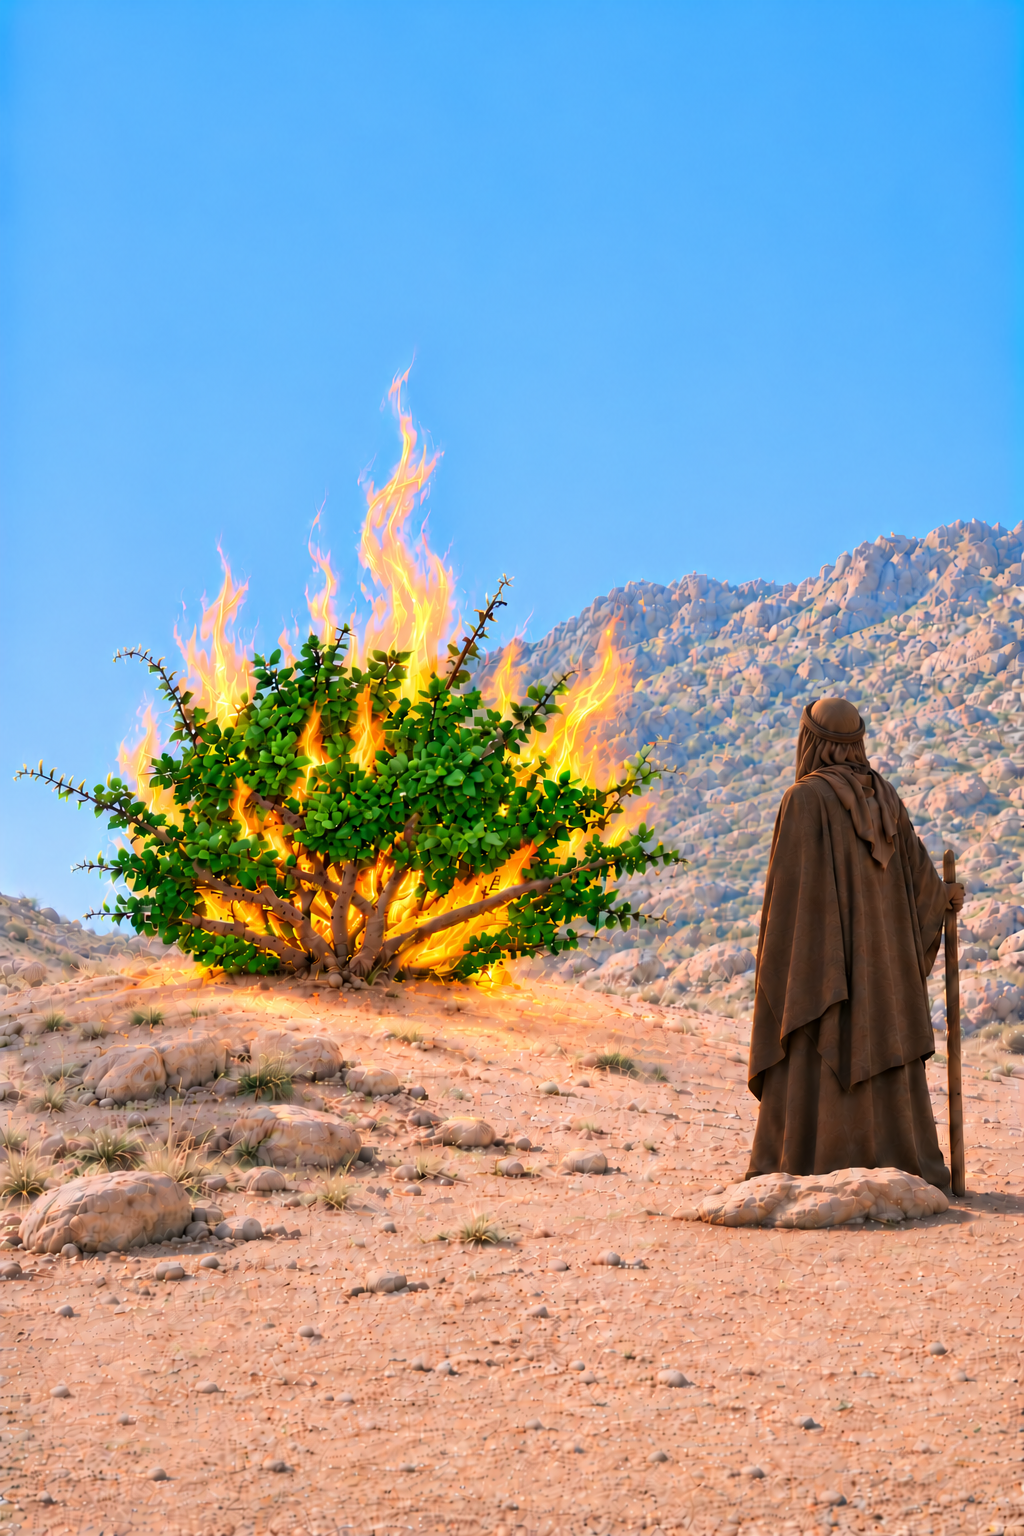
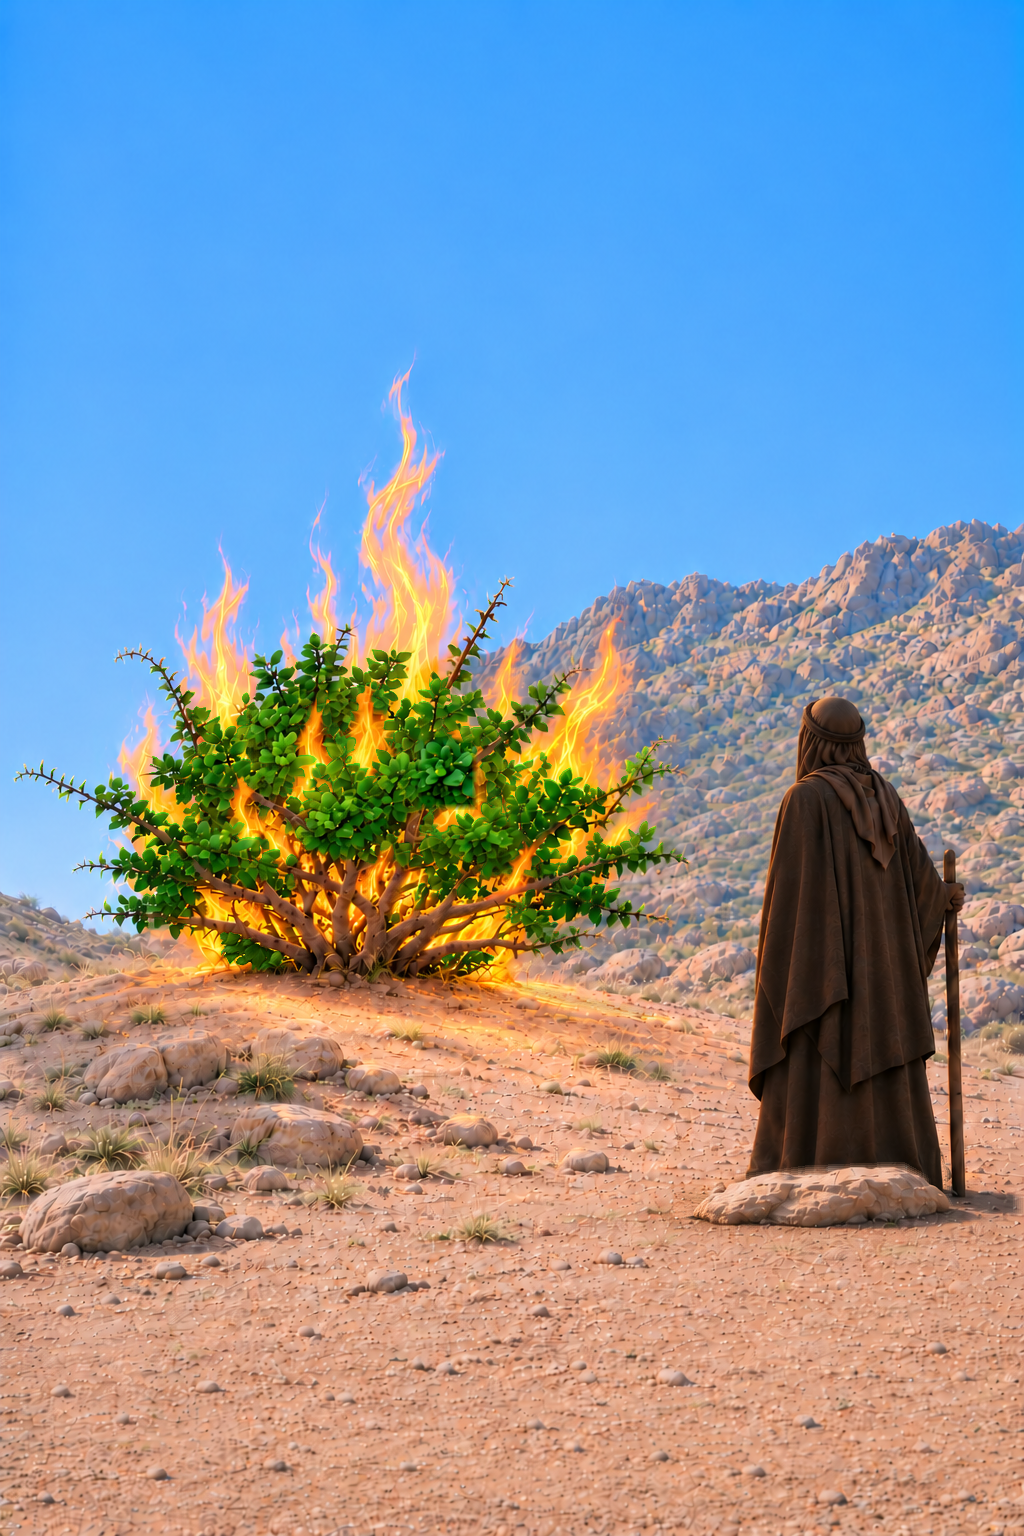
docs: finish targeted retouch of card E-2c

Changed region(s): [[0.0, 0.2188, 1.0, 1.0], [0.0312, 0.0, 0.0938, 0.0625], [0.7188, 0.0, 0.75, 0.0312]]

diff --git a/docs/인계/카드E2c_GPT.md b/docs/인계/카드E2c_GPT.md
@@ -1,48 +1,39 @@
-상태: 하는 중
+상태: 끝
 AI: GPT(Codex)
 시작: 2026-11-19 12:13 KST
-갱신: 2026-11-19 14:06 KST
-재개: GPT(Codex) · 2026-11-19 14:06 KST
+재개: 2026-11-19 14:06 KST
+갱신: 2026-11-19 14:18 KST
 줄: 그림 줄 가 · 떨기나무
 단계: 카드 E-2c · 떨기나무 그림 다듬기
 브랜치: gpt/sian-horeb
 기준 main: 56effe746b0abd7fdfe0dd69185e803014c4ab3e
 
-## 어디까지 했는지
+## 한 일
 
-- 14:06 KST 재개. 최신 작업줄의 GPT 순서와 원격 인계를 확인했다. 마지막 커밋이 40분을 넘은 E-2c를 이어받아 최신 main을 작업 브랜치에 합치고 재개를 기록했다.
-- 원격과 main을 새로 받고 AGENTS.md, docs/08_작업줄.md를 읽었다. 코드 줄에는 40분 안의 ‘하는 중’ 기록이 있어 규칙대로 건너뛰었다. 비어 있던 그림 줄 가 E-2c를 골랐다.
-- 기존 gpt/sian-horeb에 main을 fast-forward하고 시작 기록부터 커밋·푸시했다.
-- E-2b 원본 세 장을 내장 image_gen으로 편집해 보정 후보본 세 장을 만들었다. 중앙 격자를 초록 잎으로 바꾸고, 줄기 사이 점박이·잎 색·옷자락을 보정했으며, 그림 3의 팔을 굽혀 소매 천으로 얼굴을 가리게 했다.
-- 전체와 지정 좌표를 확대해 비교했다. 잎의 금빛 접점, 발치 그림자, 그림 3의 앞 바위 왼쪽 작은 돌 및 세 장의 미세한 배경 차이가 남아 있다. **요청을 모두 충족한 완성본으로 판정하지 않았으며, 상태는 ‘하는 중’이다.**
-- 실제 쓴 요청문 14개, 중간본 채택 여부, 제작 정보, 고친 곳마다의 확대 결과와 지정 영역 밖 변화는 아래 수정 기록에 적었다. 최종 후보 PNG는 도구 출력 그대로 복사했다.
-- 원본 폴더, 게임 파일, 진행판, 작업줄, 다른 줄의 브랜치는 고치지 않았다. main에 합치지 않는다.
+- 이전 인계의 편집 후보본과 원본 세 장을 비교했다. 최신 작업줄 순서에 따라 40분이 지난 E-2c를 이어받고, 최신 main과 재개 기록을 이 브랜치에 올렸다.
+- 편집 도구에 수정 위치를 확대해 넣었다. 원본 위에 필요한 부분만 붙여 중앙 격자를 초록 잎으로 바꾸고, 줄기 사이의 점박이와 잎의 노란 테두리를 줄였다. 그림 3은 팔꿈치를 굽혀 소매가 얼굴을 가리고, 그림 2·3은 옷자락 밑에 신이나 발가락처럼 보이던 돌출부를 없앴다.
+- 그림 1의 배경을 세 장에 공통으로 사용해 나무·불·땅을 맞췄다. 인물과 지팡이 주변은 원본마다 유지했고, 앞 바위 왼쪽의 혹을 다듬었다. 전체와 각 지정 위치를 확대해 확인했다. 하늘, 덤불·불, 공통 지면의 잘라낸 영역은 파일에서도 세 장이 동일했다.
+- 그림 세 장은 모두 1024×1536, 5MB 미만이다. 각 수정의 방법·확대 결과·범위 밖 차이와 내장 도구에 쓴 요청문 전문은 제작 기록에 적었다.
 
-## 올린 파일 목록
+## 바뀐 파일 목록
 
-1. docs/시안/떨기나무_압도_3/01_bush.png
-2. docs/시안/떨기나무_압도_3/02_moses.png
-3. docs/시안/떨기나무_압도_3/03_face_covered.png
-4. docs/시안/떨기나무_압도_3/떨기나무_수정기록.md
-5. docs/인계/카드E2c_GPT.md
+1. `docs/시안/떨기나무_압도_3/01_bush.png`
+2. `docs/시안/떨기나무_압도_3/02_moses.png`
+3. `docs/시안/떨기나무_압도_3/03_face_covered.png`
+4. `docs/시안/떨기나무_압도_3/떨기나무_수정기록.md`
+5. `docs/인계/카드E2c_GPT.md`
 
-세 그림 모두 1024×1536, 5MB 미만이다. 축소하지 않았다.
+## 그림별 카드 E 여섯 줄
 
-## 그림마다 카드 E 여섯 줄 확인
-
-| 그림 | 1. 하나님·천사 | 2. 불·빛·구름 속 얼굴·사람 | 3. 신상·폭력 | 4. 글자·주인공 아이 | 5. 본문 밖 사건·말씀 | 6. 초록 잎·연기/재·모세 얼굴 |
+| 그림 | 1. 하나님·천사 | 2. 불·빛·구름 속 얼굴·사람 | 3. 신상·폭력 | 4. 글자·주인공 아이 | 5. 본문 밖 사건·말씀 | 6. 녹색 잎·연기/재·모세 얼굴 |
 |---|---|---|---|---|---|---|
-| 01_bush | 발견하지 못함 | 발견하지 못함 | 없음 | 없음 | 없음 | 연기·재 없음, 인물 없음. 잎 금빛 접점 추가 보정 필요 |
-| 02_moses | 발견하지 못함 | 발견하지 못함 | 없음 | 없음 | 없음 | 연기·재와 얼굴 노출 없음. 잎 금빛 접점 추가 보정 필요 |
-| 03_face_covered | 발견하지 못함 | 발견하지 못함 | 없음 | 없음 | 없음 | 연기·재와 얼굴 노출 없음. 잎 금빛 접점 추가 보정 필요 |
-
-육안 점검이며 독립 검증·대표 승인을 대신하지 않는다. 6번을 완전히 충족했다고 표시하지 않았다. 현재 후보본을 게임에 넣지 않는다.
+| 1 | 없음 | 발견하지 못함 | 없음 | 없음 | 없음 | 초록 잎, 연기·재 없음, 인물 없음 |
+| 2 | 없음 | 발견하지 못함 | 없음 | 없음 | 없음 | 초록 잎, 연기·재 없음, 얼굴이 보이지 않는 뒷모습 |
+| 3 | 없음 | 발견하지 못함 | 없음 | 없음 | 없음 | 초록 잎, 연기·재 없음, 얼굴은 소매와 머리쓰개로 가림 |
 
 ## 점검 결과
 
-그림·문서 단계이므로 `node tools/check.js` 빠른 점검만 실행했다. 문법과 두 빌드가 통과했다. 빌드로 작업 상태에 잡힌 생성 파일 3개는 내용 차이가 없음을 확인하고 원래 상태로 되돌렸다. `git diff --check`도 통과했다. 자동 점검 합격은 그림의 남은 보정 사항이 해결됐다는 뜻이 아니다.
-
-마지막 두 줄:
+`node tools/check.js`를 실행했다. 빠른 점검과 바뀐 파일 범위 확인이 통과했다. 빌드로 상태에 잡힌 생성 파일 3개는 원래 상태로 되돌렸다.
 
 ```text
 점검 종류: 빠른 · 통과 4/4
@@ -51,8 +42,4 @@ AI: GPT(Codex)
 
 ## 남은 일
 
-1. 세 장의 잎 가장자리 금빛과 줄기 사이 잔여 점을 더 제거한다.
-2. 그림 2·3의 발치 어두운 윤곽이 신이나 발처럼 읽히지 않게 마무리한다.
-3. 그림 3의 바위 왼쪽 작은 돌과 배경 연속성을 그림 1·2에 맞춘다. 생성 과정에서 달라진 하늘·모래·산의 미세한 색과 질감도 확인한다.
-4. 수정 기록의 1~9번 확대 점검을 다시 하고, 요청을 충족한 뒤 상태를 ‘끝’으로 바꾼다. 그 전에는 다음 단계를 시작하지 않는다.
-5. 총괄 검토와 대표 확인이 남았다. main 합치기는 총괄이 한다.
+총괄의 확대 검토와 대표의 그림 확인이 남았다. 밑동 옆에는 옅게 한 뒤에도 가는 반사광이 일부 남아 있고, 모세 바로 옆은 인물 윤곽과 그림자를 이어 붙인 영역이다. 그림을 검토할 때 이 두 부분도 함께 본다. main 반영은 총괄이 맡는다.
